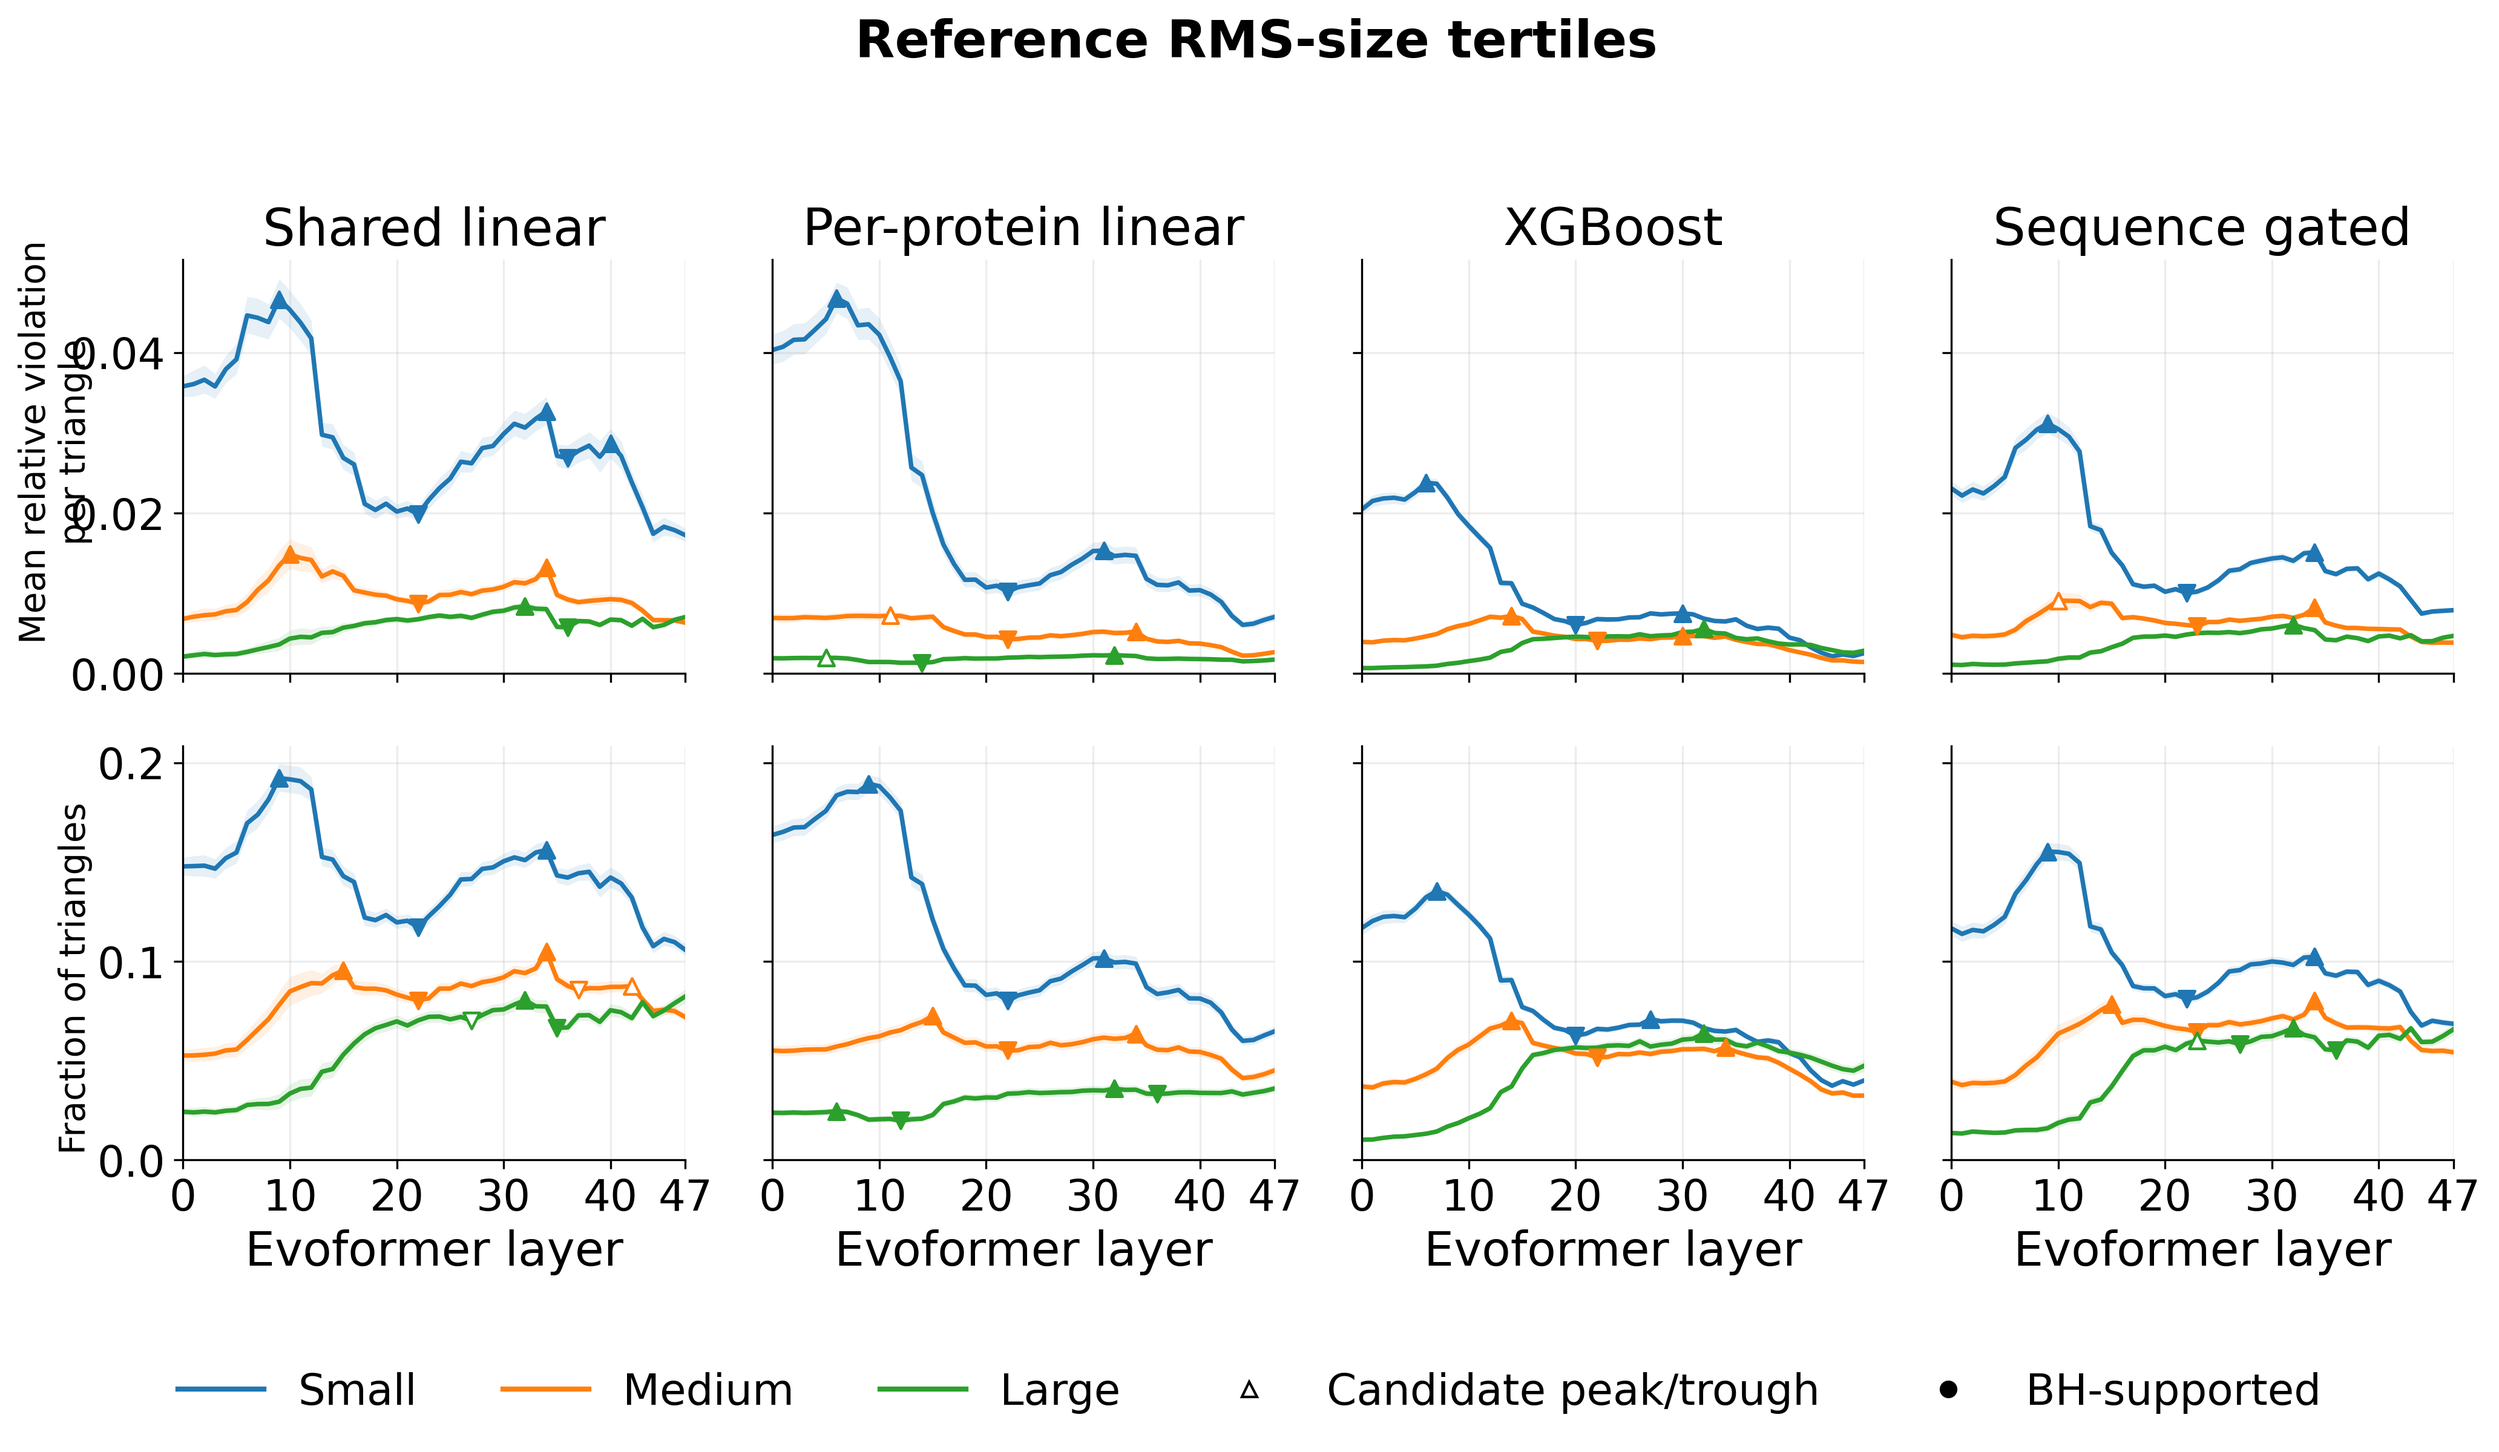
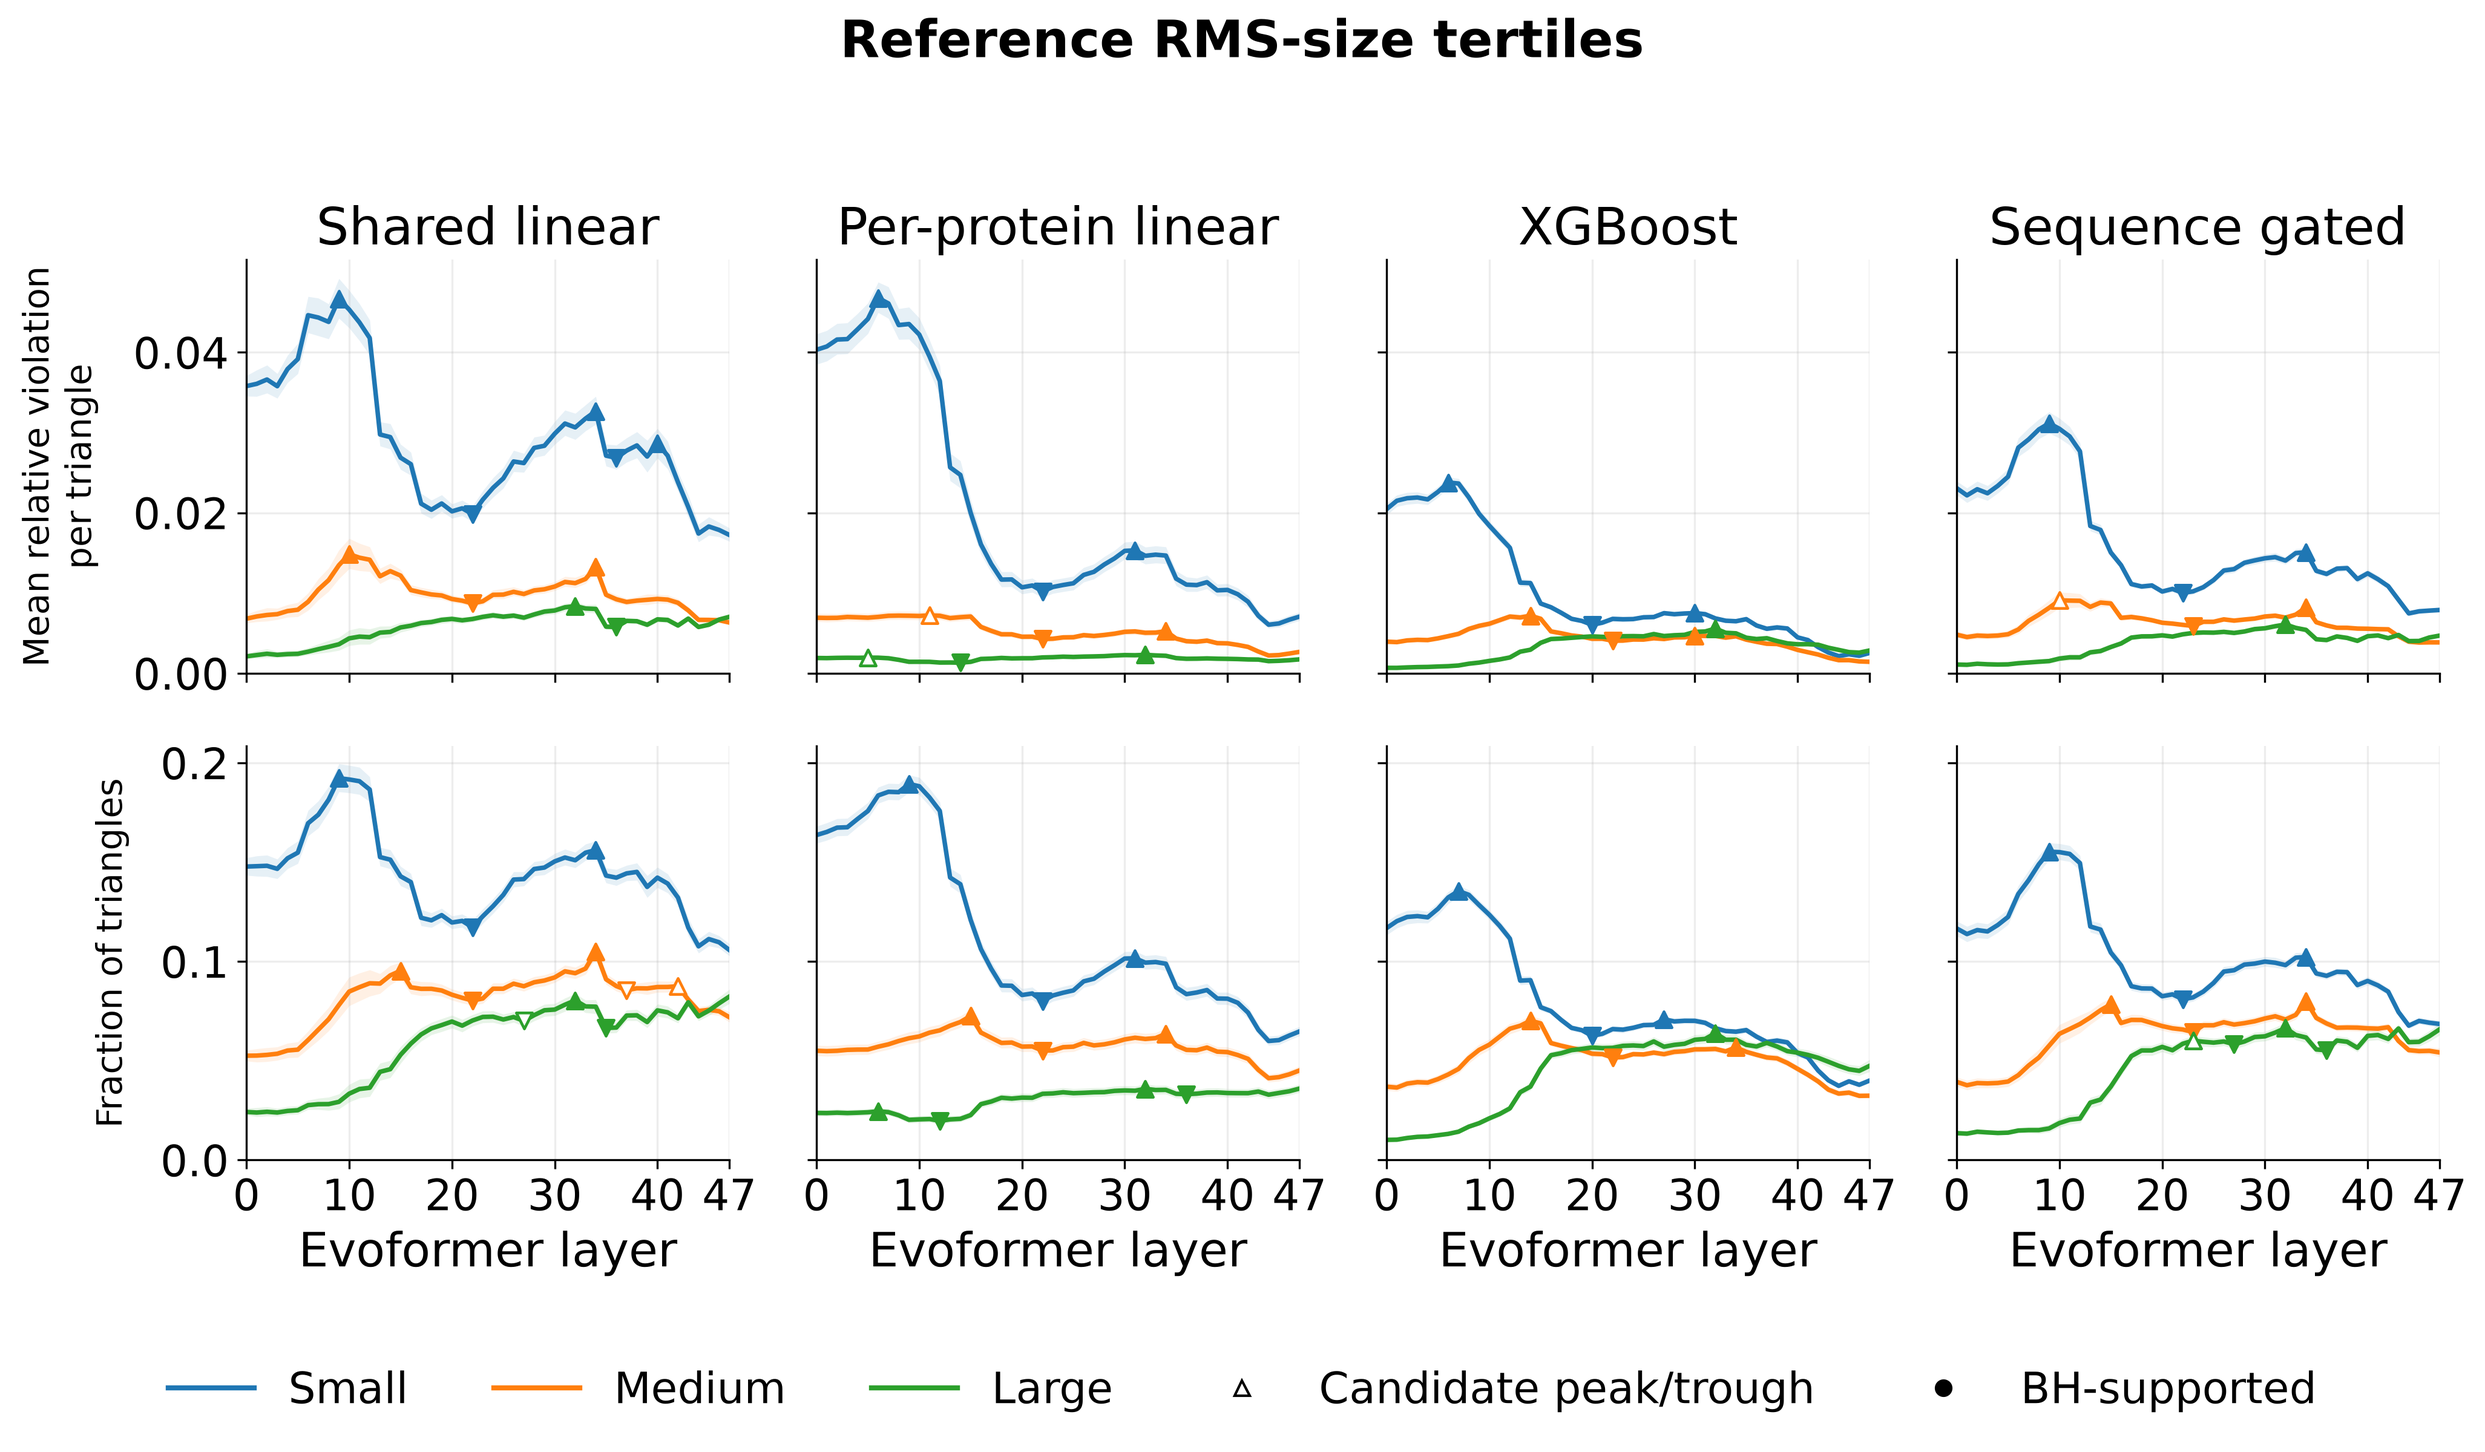
Separate RMS-size figure y-labels from tick values

diff --git a/scripts/multi_protein/generate_sept_2_publication_plots.py b/scripts/multi_protein/generate_sept_2_publication_plots.py
@@ -1139,9 +1139,7 @@ def triangle_stratified_figure(
                 axis.set_ylabel(
                     grid_ylabel,
                     fontsize=TRIANGLE_GRID_YLABEL_SIZE,
-                )
-                axis.yaxis.set_label_coords(
-                    -0.18, 0.56 if row_index == 0 else 0.44
+                    labelpad=12,
                 )
             else:
                 axis.set_ylabel("")

diff --git a/branch-analysis.md b/branch-analysis.md
@@ -1,5 +1,10 @@
 # Branch Analysis
 
+## Session: 2026-10-05 — Separate triangle-grid labels from ticks
+
+Replaced hard-coded y-label coordinates in the stratified triangle grids with
+label padding and regenerated the RMS-size figure and manifest hashes.
+
 ## Session: 2026-10-05 — Set manuscript TM-score axis to 0–1
 
 Regenerated main Figure 3 from its saved fivefold summary with a fixed 0–1
